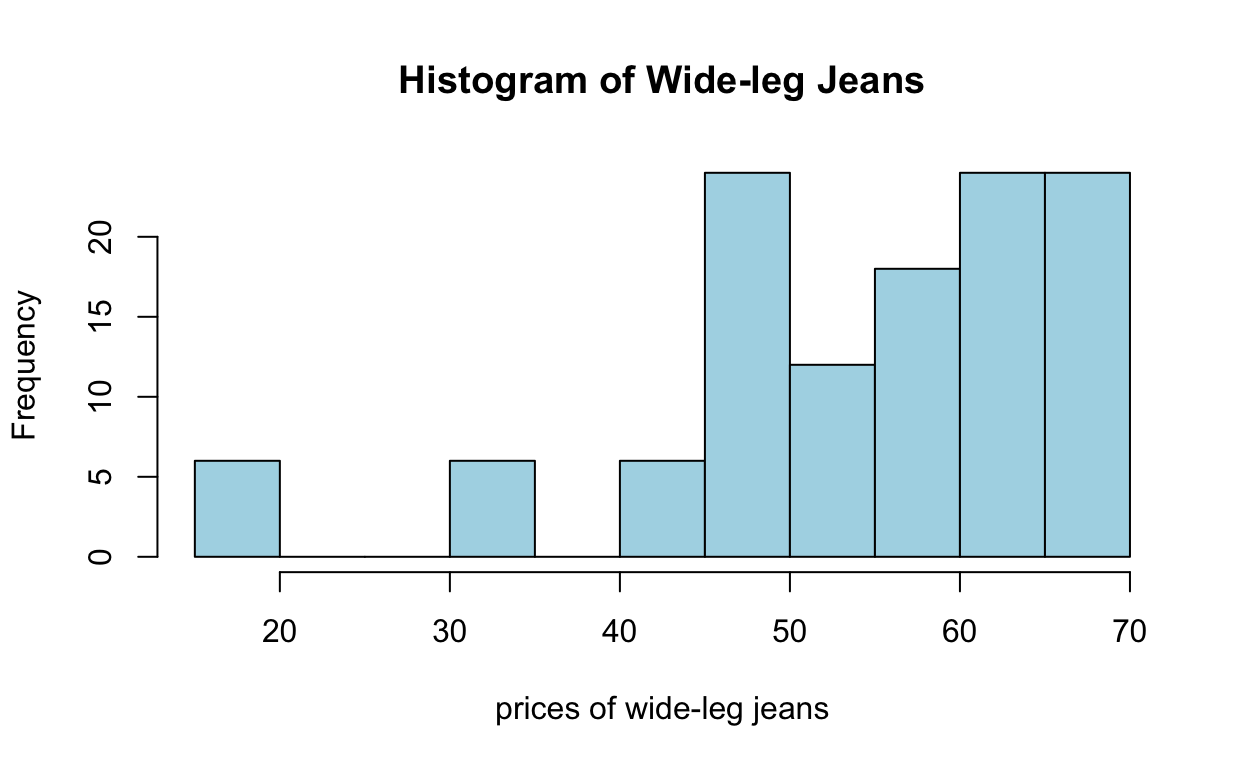
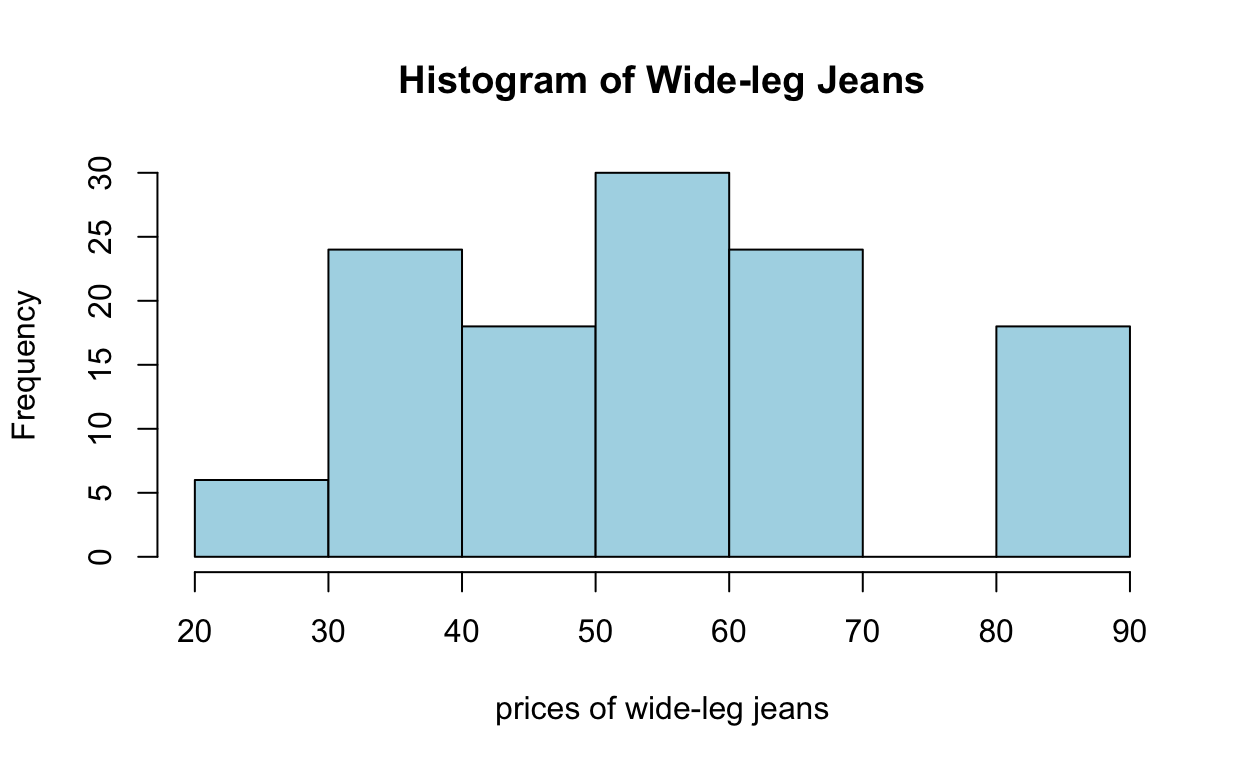
hide hist output

diff --git a/docs/indexing_filtering.html b/docs/indexing_filtering.html
@@ -2259,28 +2259,28 @@ Statistik II
 <span><span class='fu'><a href='https://rdrr.io/r/utils/head.html'>head</a></span><span class='op'>(</span><span class='va'>my_dataframe</span><span class='op'>)</span></span></code></pre>
 </div>
 <pre><code>  ItemType Price       Cut
-1    jeans    63      boot
-2    jeans    61       7/8
-3    jeans    47    skinny
-4    jeans    54  wide leg
-5    jeans    55 boyfriend
-6    jeans    76      boot</code></pre>
+1    jeans    68      boot
+2    jeans    75       7/8
+3    jeans    66    skinny
+4    jeans    37  wide leg
+5    jeans    26 boyfriend
+6    jeans    74      boot</code></pre>
 <div class="sourceCode">
 <pre class="sourceCode r"><code class="sourceCode r"><span><span class='co'># Access the second row</span></span>
 <span><span class='va'>row_2</span> <span class='op'>=</span> <span class='va'>my_dataframe</span><span class='op'>[</span><span class='fl'>2</span>, <span class='op'>]</span></span>
 <span><span class='fu'><a href='https://rdrr.io/r/base/print.html'>print</a></span><span class='op'>(</span><span class='va'>row_2</span><span class='op'>)</span></span></code></pre>
 </div>
 <pre><code>  ItemType Price Cut
-2    jeans    61 7/8</code></pre>
+2    jeans    75 7/8</code></pre>
 <div class="sourceCode">
 <pre class="sourceCode r"><code class="sourceCode r"><span><span class='co'># Access the entire first column</span></span>
 <span><span class='va'>col_2</span> <span class='op'>=</span> <span class='va'>my_dataframe</span><span class='op'>[</span> ,<span class='fl'>2</span><span class='op'>]</span></span>
 <span><span class='va'>col_2</span><span class='op'>[</span><span class='fl'>1</span><span class='op'>:</span><span class='fl'>50</span><span class='op'>]</span></span></code></pre>
 </div>
-<pre><code> [1]  63  61  47  54  55  76  57  72  48  51  48  61  33  17  45  68
-[17]  41  93  70  69  63  79  66  57  64  80 101  33  63 107  90  59
-[33]  53  61  28  79  71  90  62  -5  55  86  26  48  76  74  70  42
-[49]  47  49</code></pre>
+<pre><code> [1]  68  75  66  37  26  74  41  52  28  80  44 100  56  55  77  47
+[17]  51  35  83  72 104  28  70  57  39  61  47  65  81  70  67 101
+[33]  84  66  54  54  36  66  63  51  80  65  59  61  80 120  34  46
+[49]  32  33</code></pre>
 <div class="sourceCode">
 <pre class="sourceCode r"><code class="sourceCode r"><span><span class='co'># Access the 'Age' column using column name</span></span>
 <span><span class='va'>allCuts</span> <span class='op'>=</span> <span class='va'>my_dataframe</span><span class='op'>$</span><span class='va'>Cut</span></span>
@@ -2322,26 +2322,26 @@ Statistik II
 <span><span class='fu'><a href='https://rdrr.io/r/utils/head.html'>head</a></span><span class='op'>(</span><span class='va'>my_dataframe_boot</span>, n <span class='op'>=</span> <span class='fl'>20</span><span class='op'>)</span> <span class='co'># n stands for the number of top observations you wish to see out of the dataframe </span></span></code></pre>
 </div>
 <pre><code>   ItemType Price  Cut
-1     jeans    63 boot
-6     jeans    76 boot
-11    jeans    48 boot
-16    jeans    68 boot
-21    jeans    63 boot
-26    jeans    80 boot
-31    jeans    90 boot
-36    jeans    79 boot
-41    jeans    55 boot
-46    jeans    74 boot
-51    jeans    46 boot
-56    jeans    60 boot
-61    jeans    42 boot
-66    jeans    19 boot
-71    jeans    45 boot
-76    jeans    47 boot
-81    jeans    62 boot
-86    jeans    74 boot
-91    jeans    50 boot
-96    jeans    52 boot</code></pre>
+1     jeans    68 boot
+6     jeans    74 boot
+11    jeans    44 boot
+16    jeans    47 boot
+21    jeans   104 boot
+26    jeans    61 boot
+31    jeans    67 boot
+36    jeans    54 boot
+41    jeans    80 boot
+46    jeans   120 boot
+51    jeans    69 boot
+56    jeans    58 boot
+61    jeans    46 boot
+66    jeans    61 boot
+71    jeans    26 boot
+76    jeans    54 boot
+81    jeans    74 boot
+86    jeans    70 boot
+91    jeans    56 boot
+96    jeans    58 boot</code></pre>
 <div class="sourceCode">
 <pre class="sourceCode r"><code class="sourceCode r"><span><span class='co'># bonus...lets see the distribution of the prices of boot cuts </span></span>
 <span><span class='fu'><a href='https://rdrr.io/r/graphics/hist.html'>hist</a></span><span class='op'>(</span><span class='va'>my_dataframe</span><span class='op'>[</span><span class='va'>condition_boot</span>, <span class='fl'>2</span><span class='op'>]</span>,</span>
@@ -2378,7 +2378,7 @@ Statistik II
 <span><span class='va'>condition_wide_39</span> <span class='op'>=</span> <span class='va'>my_dataframe</span><span class='op'>$</span><span class='va'>Cut</span> <span class='op'>==</span> <span class='st'>"wide leg"</span> <span class='op'>&amp;</span> <span class='va'>my_dataframe</span><span class='op'>$</span><span class='va'>Price</span> <span class='op'>&gt;</span> <span class='fl'>39</span></span>
 <span><span class='fu'><a href='https://rdrr.io/r/utils/head.html'>head</a></span><span class='op'>(</span><span class='va'>condition_wide_39</span><span class='op'>)</span></span></code></pre>
 </div>
-<pre><code>[1] FALSE FALSE FALSE  TRUE FALSE FALSE</code></pre>
+<pre><code>[1] FALSE FALSE FALSE FALSE FALSE FALSE</code></pre>
 <div class="sourceCode">
 <pre class="sourceCode r"><code class="sourceCode r"><span><span class='va'>data_wide_39</span> <span class='op'>=</span> <span class='va'>my_dataframe</span><span class='op'>[</span><span class='va'>condition_wide_39</span>,<span class='op'>]</span></span>
 <span></span>
@@ -2399,7 +2399,7 @@ Statistik II
 <span><span class='va'>condition_wide_or_39</span> <span class='op'>=</span> <span class='va'>my_dataframe</span><span class='op'>$</span><span class='va'>Cut</span> <span class='op'>==</span> <span class='st'>"wide leg"</span> <span class='op'>|</span> <span class='va'>my_dataframe</span><span class='op'>$</span><span class='va'>Price</span> <span class='op'>&gt;</span> <span class='fl'>39</span></span>
 <span><span class='fu'><a href='https://rdrr.io/r/utils/head.html'>head</a></span><span class='op'>(</span><span class='va'>condition_wide_or_39</span><span class='op'>)</span></span></code></pre>
 </div>
-<pre><code>[1] TRUE TRUE TRUE TRUE TRUE TRUE</code></pre>
+<pre><code>[1]  TRUE  TRUE  TRUE  TRUE FALSE  TRUE</code></pre>
 <div class="sourceCode">
 <pre class="sourceCode r"><code class="sourceCode r"><span><span class='va'>data_wide_or_39</span> <span class='op'>=</span> <span class='va'>my_dataframe</span><span class='op'>[</span><span class='va'>condition_wide_or_39</span>,<span class='op'>]</span></span>
 <span></span>
@@ -2443,7 +2443,7 @@ Statistik II
 </ol>
 </div>
 <div class="layout-chunk" data-layout="l-body">
-<p><img src="indexing_filtering_files/figure-html5/unnamed-chunk-12-1.png" width="624" /></p>
+
 </div>
 <p><strong>Task 4: Filter by multiple conditions</strong></p>
 <div style="border: 1px solid;margin: auto;width: 90%;padding: 10px;text-align:left;background:#DBF9FC;font-family: curier;font-size:15px">
@@ -2454,7 +2454,7 @@ Statistik II
 </ol>
 </div>
 <div class="layout-chunk" data-layout="l-body">
-<p><img src="indexing_filtering_files/figure-html5/unnamed-chunk-13-1.png" width="624" /></p>
+
 </div>
 <p><strong>Task 5: Add a column and index</strong></p>
 <div style="border: 1px solid;margin: auto;width: 90%;padding: 10px;text-align:left;background:#DBF9FC;font-family: curier;font-size:15px">
